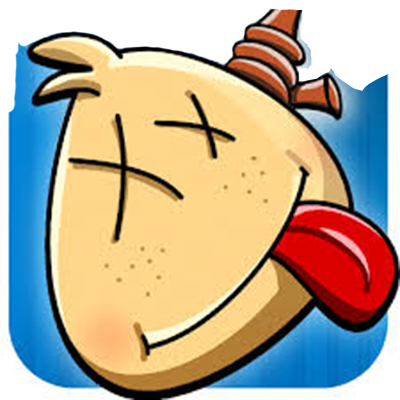
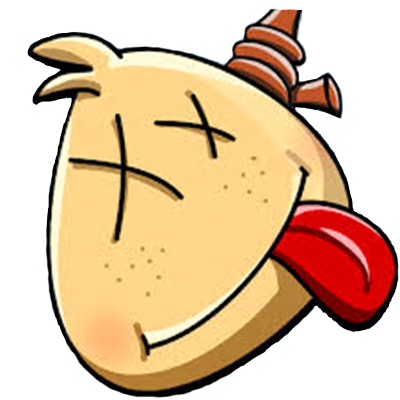
added image. Trying jquery in code

Changed region(s): [[0.0, 0.09, 1.0, 1.0], [0.72, 0.18, 0.99, 0.63], [0.75, 0.09, 0.78, 0.18]]

diff --git a/index.html b/index.html
@@ -1,6 +1,7 @@
 <!doctype html>
 <html lang="en">
 	<head>
+		<script   src="https://code.jquery.com/jquery-3.0.0.js"   integrity="sha256-jrPLZ+8vDxt2FnE1zvZXCkCcebI/C8Dt5xyaQBjxQIo="   crossorigin="anonymous"></script>
 		<link rel='shortcut icon' href='images/favicon.ico' type='image/x-icon'/ >
 		<link rel="stylesheet" type="text/css" href="css/style.css"	>
 		<link src="fonts/Proxanys.ttf" rel='stylesheet' type='	text/css'>        
@@ -13,51 +14,51 @@
 	</header>
 	<body>
 		<img id="excecutioner" src="images/executioner.png"/>
-		<img id="before-face" src="images/before.png"/>
+		<img id="before-face" src="images/before2.png"/>
 		<form>
 			<input id="guess-box" type="text"/>
 			<button id="guess-button">Enter</button>
 		</form>
 			<div>
 				<ul class="alpha-row">
-					<li class="letter-strike">A</li>
-					<li class="letter-strike">B</li>
-					<li class="letter-strike">C</li>
-					<li class="letter-strike">D</li>
-					<li class="letter-strike">E</li>
-					<li class="letter-strike">F</li>
-					<li class="letter-strike">G</li>
-					<li class="letter-strike">H</li>
-					<li class="letter-strike">I</li>
-					<li class="letter-strike">J</li>
-					<li class="letter-strike">K</li>
-					<li class="letter-strike">L</li>
-					<li class="letter-strike">M</li>
-					<li class="letter-strike">N</li>
-					<li class="letter-strike">O</li>
-					<li class="letter-strike">P</li>
-					<li class="letter-strike">Q</li>
-					<li class="letter-strike">R</li>
-					<li class="letter-strike">S</li>
-					<li class="letter-strike">T</li>
-					<li class="letter-strike">U</li>
-					<li class="letter-strike">V</li>
-					<li class="letter-strike">W</li>
-					<li class="letter-strike">X</li>
-					<li class="letter-strike">Y</li>
-					<li class="letter-strike">Z</li>
+					<li class="letter-strike" id="A">A</li>
+					<li class="letter-strike" id="B">B</li>
+					<li class="letter-strike" id="C">C</li>
+					<li class="letter-strike" id="D">D</li>
+					<li class="letter-strike" id="E">E</li>
+					<li class="letter-strike" id="F">F</li>
+					<li class="letter-strike" id="G">G</li>
+					<li class="letter-strike" id="H">H</li>
+					<li class="letter-strike" id="I">I</li>
+					<li class="letter-strike" id="J">J</li>
+					<li class="letter-strike" id="K">K</li>
+					<li class="letter-strike" id="L">L</li>
+					<li class="letter-strike" id="M">M</li>
+					<li class="letter-strike" id="N">N</li>
+					<li class="letter-strike" id="O">O</li>
+					<li class="letter-strike" id="P">P</li>
+					<li class="letter-strike" id="Q">Q</li>
+					<li class="letter-strike" id="R">R</li>
+					<li class="letter-strike" id="S">S</li>
+					<li class="letter-strike" id="T">T</li>
+					<li class="letter-strike" id="U">U</li>
+					<li class="letter-strike" id="V">V</li>
+					<li class="letter-strike" id="W">W</li>
+					<li class="letter-strike" id="X">X</li>
+					<li class="letter-strike" id="Y">Y</li>
+					<li class="letter-strike" id="Z">Z</li>
 				</ul>
 			</div>
 			<div>		
  				<ul class="the-word">
-  					<li class="dubs">?</li>			<!-- W -->
-  					<li class="dubs">?</li>			<!-- A -->
-  					<li class="dubs">?</li>			<!-- R -->
-  					<li class="dubs">?</li>			<!-- R -->
-  					<li class="dubs">?</li>			<!-- I -->
-  					<li class="dubs">?</li>			<!-- O -->
-  					<li class="dubs">?</li>			<!-- R -->
-  					<li class="dubs">?</li>			<!-- S -->
+  					<li class="dubs" id='WW'>?</li>			<!-- W -->
+  					<li class="dubs" id='A'>?</li>			<!-- A -->
+  					<li class="dubs" id='R'>?</li>			<!-- R -->
+  					<li class="dubs" id='R'>?</li>			<!-- R -->
+  					<li class="dubs" id='I'>?</li>			<!-- I -->
+  					<li class="dubs" id='O'>?</li>			<!-- O -->
+  					<li class="dubs" id='R'>?</li>			<!-- R -->
+  					<li class="dubs" id='S'>?</li>			<!-- S -->
 				</ul>
 			</div>
 	</body>

diff --git a/js/javman.js b/js/javman.js
@@ -1,20 +1,88 @@
 //to do:
-//player enters letter guess and clicks enter button
-//enter button
+//player clicks on letter itself
 
 //load game at start up
 window.onload = function() {
+
+	// console.log($('.letter-strike'))
+
+	var letterStrike = []
+	// letterStrike = $('.letter-strike');
+	// console.log(letterStrike)
+
+	 $('.letter-strike').each(function(index) {
+
+        var $idVal = $(this).attr('id'); //Gets the id of the div
+        letterStrike.push($idVal)
+        // console.log($idVal)
+
+        //  $(this).on("click", function(e) {
+        //      $(this).addClass('clicked')
+        // });
+
+    })
+
+	      addingOnclick(letterStrike);
+	}
+
+
+	function addingOnclick(letterStrike) {
+		    $('.letter-strike').on("click", function(e) {
+
+		    	var arr = []
+
+		    	var x = $(this).attr('id')
+		    	$(this).removeClass('available') //that class will deffirintiate 
+
+		    	//you can only input new .html(x) if there is no class of
+		    	if $('.dubs').hasClass('available') { 
+		    		loop that goes through dubs with available class
+
+		    	$('#WW').html(x) ///has to be dynamic
+
+		    	}
+		    })
+
+		    // call the class that is gonna compare clicked values arr to specific hardcoded arr
+
+	}
 	// alert('PLAYER 1, YOU\'RE UP!') //on load prompts player 1
 
 
-var alphaBet = ['A','B','C','D','E','F','G','H','I','J','K','L','M','N','O','P','Q','R','S','T','U','V','W','X','Y','Z'];
+// var alphaBet = ['A','B','C','D','E','F','G','H','I','J','K','L','M','N','O','P','Q','R','S','T','U','V','W','X','Y','Z'];
 
-var wordWin = ['W','A','R','R','I','O','R','S'];
+// var letters = document.getElementsByClassName('letter-strike');
+
+// for (var i = 0; i < letters.length; i++) {
+// 	letters[i].addEventListener('click', function(){
+// 	 checkIfCorrect(this.innerHTML);
+// 	})
+// };
+// }
+
+// var wordWin = ['W','A','R','R','I','O','R','S'];
+
+// function checkIfCorrect(letter){
+// 	for (var i = 0; i < wordWin.length; i++) {
+// 		if (wordWin[i] === letter){
+// 				console.log('correct');
+// 			letter.getElementById('dubs')
+// 			// get the correct word box and save it to a var using its getElementById
+// 			// its ID is the letter we passed in 
+// 			// set the innerHTML equal to the letter
+// 		}else{
+// 			console.log('not correct')
+// 		}
+// 	};
+
+// }
+
+// var letterBox = document.getElementById('guess-box');
+// 	for (var i = 0; i < alphaBet.length; i++) {
+// 		if (letterBox[i] === wordWin['']);
+
+// 			}
+// 		}
 
 
-var letterBox = document.getElementById('guess-button');
-	for (var i = 0; i < alphaBet.length; i++) {
-		if (alphaBet[i] === wordWin[''])
-			console.log('got it')
-			}
-		}
+// document.getElementById('dubs-w')

diff --git a/css/style.css b/css/style.css
@@ -93,7 +93,7 @@ mirroring code to css page.  I could not override "user agent stylesheet". Displ
 .the-word {
   list-style: none;
   display: flex;
-  margin-left: 28.5%;
+  margin-left: 27.5%;
 }
 
 .dubs {
@@ -102,7 +102,7 @@ mirroring code to css page.  I could not override "user agent stylesheet". Displ
   border-bottom: 1px solid yellow;
   border-top: 1px solid blue;
   padding: 15px;
-  width: 41.5px;
+  width: 53px;
   height: 16px;
   margin-top: -71px;
   line-height: 11px;
